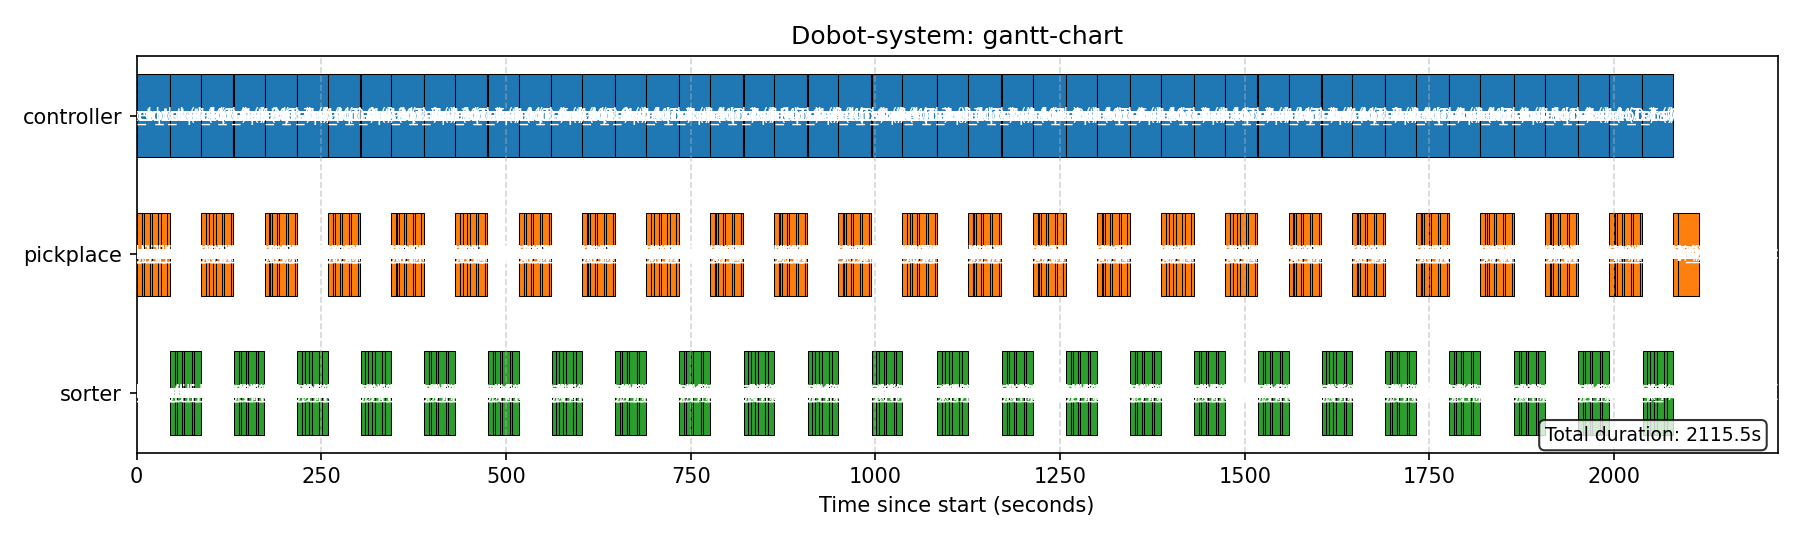
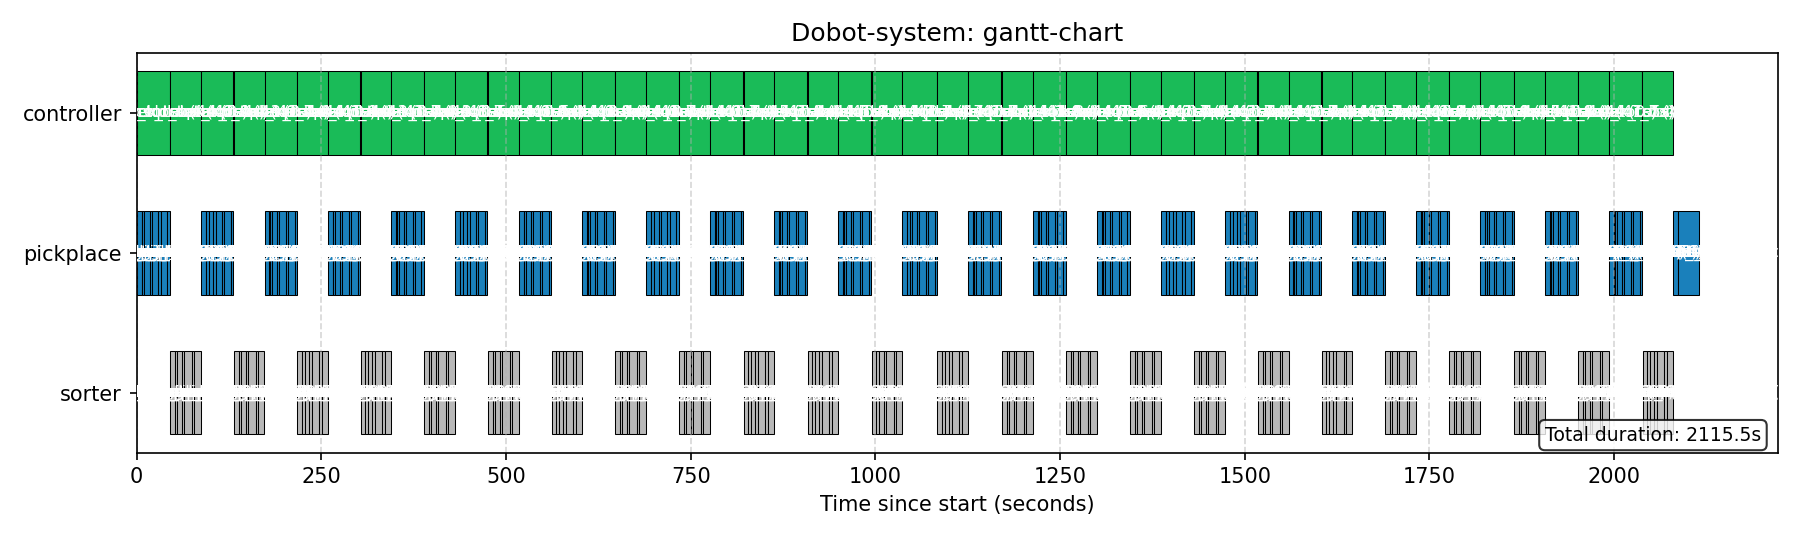
add gantt chart plotting functionality and new output image

diff --git a/scripts/generate_kpi.py b/scripts/generate_kpi.py
@@ -15,6 +15,13 @@ import pandas as pd
 import matplotlib.pyplot as plt
 
 
+COMPONENT_COLORS = {
+    "controller": "#1abb58",
+    "pickplace": "#1a80bb",
+    "sorter": "#b8b8b8",
+}
+
+
 def load_events(path):
     '''
     Loads events from a JSONL file, skipping invalid lines.
@@ -388,6 +395,56 @@ def plot_action_boxplot(kpis, outdir):
     print(f"   → {path}")
 
 
+def plot_gantt(kpis, outdir):
+    '''
+    Gantt chart of all action intervals.
+    '''
+    intervals = kpis["intervals"]
+    if not intervals:
+        return
+
+    t0 = min(iv["start"] for iv in intervals)
+    components = sorted({iv["component"] for iv in intervals})
+    y_pos = {c: i for i, c in enumerate(components)}
+    fig, ax = plt.subplots(figsize=(14, 1.2 + len(components)))
+
+    for iv in intervals:
+        duration = iv["duration"]
+        ax.barh(
+            y=y_pos[iv["component"]],
+            width=max(duration, 0.05),
+            left=iv["start"] - t0,
+            height=0.6,
+            color=COMPONENT_COLORS.get(iv["component"], "gray"),
+            edgecolor="black",
+            linewidth=0.5,
+        )
+        ax.text(
+            iv["start"] - t0 + duration / 2,
+            y_pos[iv["component"]],
+            f"{iv['action']}",
+            ha="center",
+            va="center",
+            fontsize=7,
+            color="white",
+            clip_on=True,
+        )
+    ax.set(
+        yticks=list(y_pos.values()),
+        yticklabels=list(y_pos.keys()),
+        xlabel="Time since start [s]",
+        title="Gantt Chart",
+    )
+    ax.invert_yaxis()
+    ax.grid(axis="x", linestyle="--", alpha=0.3)
+    plt.tight_layout()
+    path = outdir / "gantt_chart.png"
+    plt.savefig(path, dpi=150)
+    plt.close()
+
+    print(f"   → {path}")
+
+
 def export_csv(kpis, outdir):
     '''
     Export cycles and intervals as CSV files for further analysis.
@@ -435,6 +492,7 @@ def main():
     plot_phase_breakdown(kpis, outdir)
     plot_color_distribution(kpis, outdir)
     plot_action_boxplot(kpis, outdir)
+    plot_gantt(kpis, outdir)
 
     export_csv(kpis, outdir)
 
